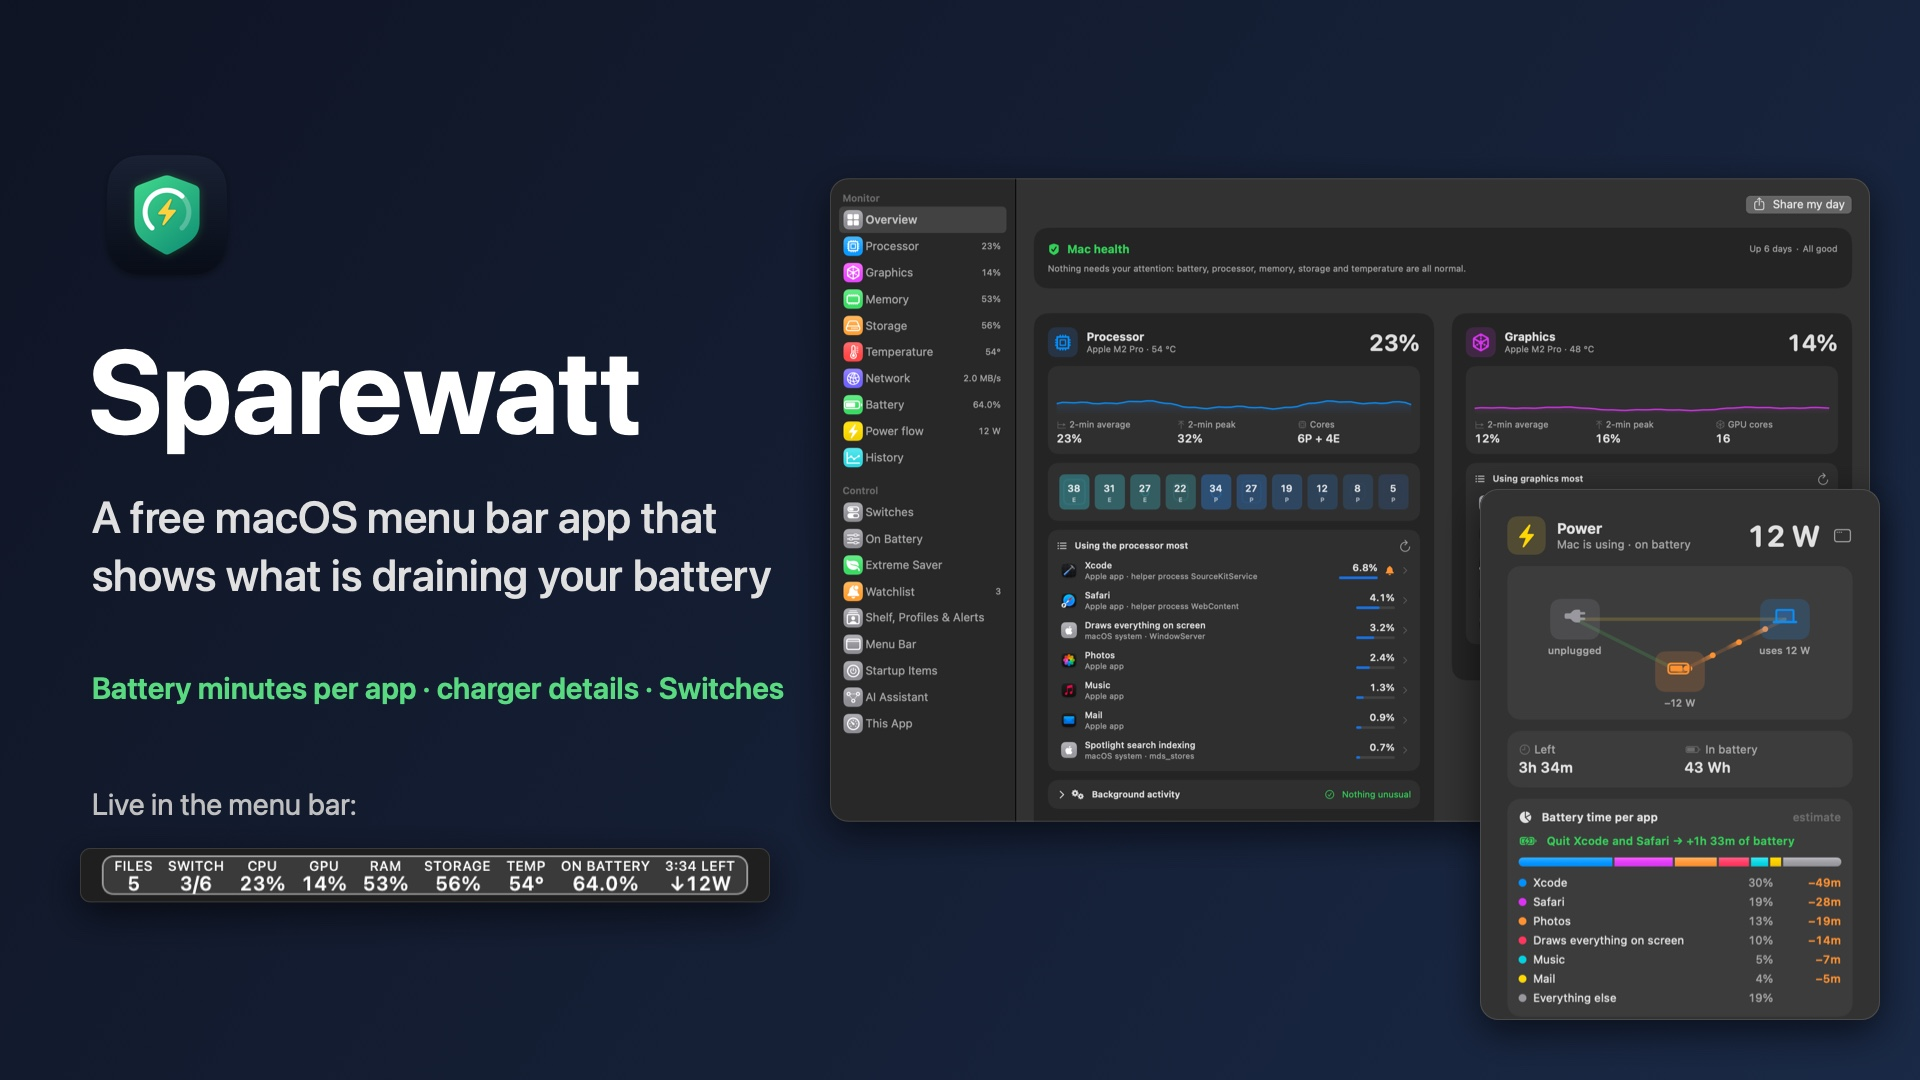
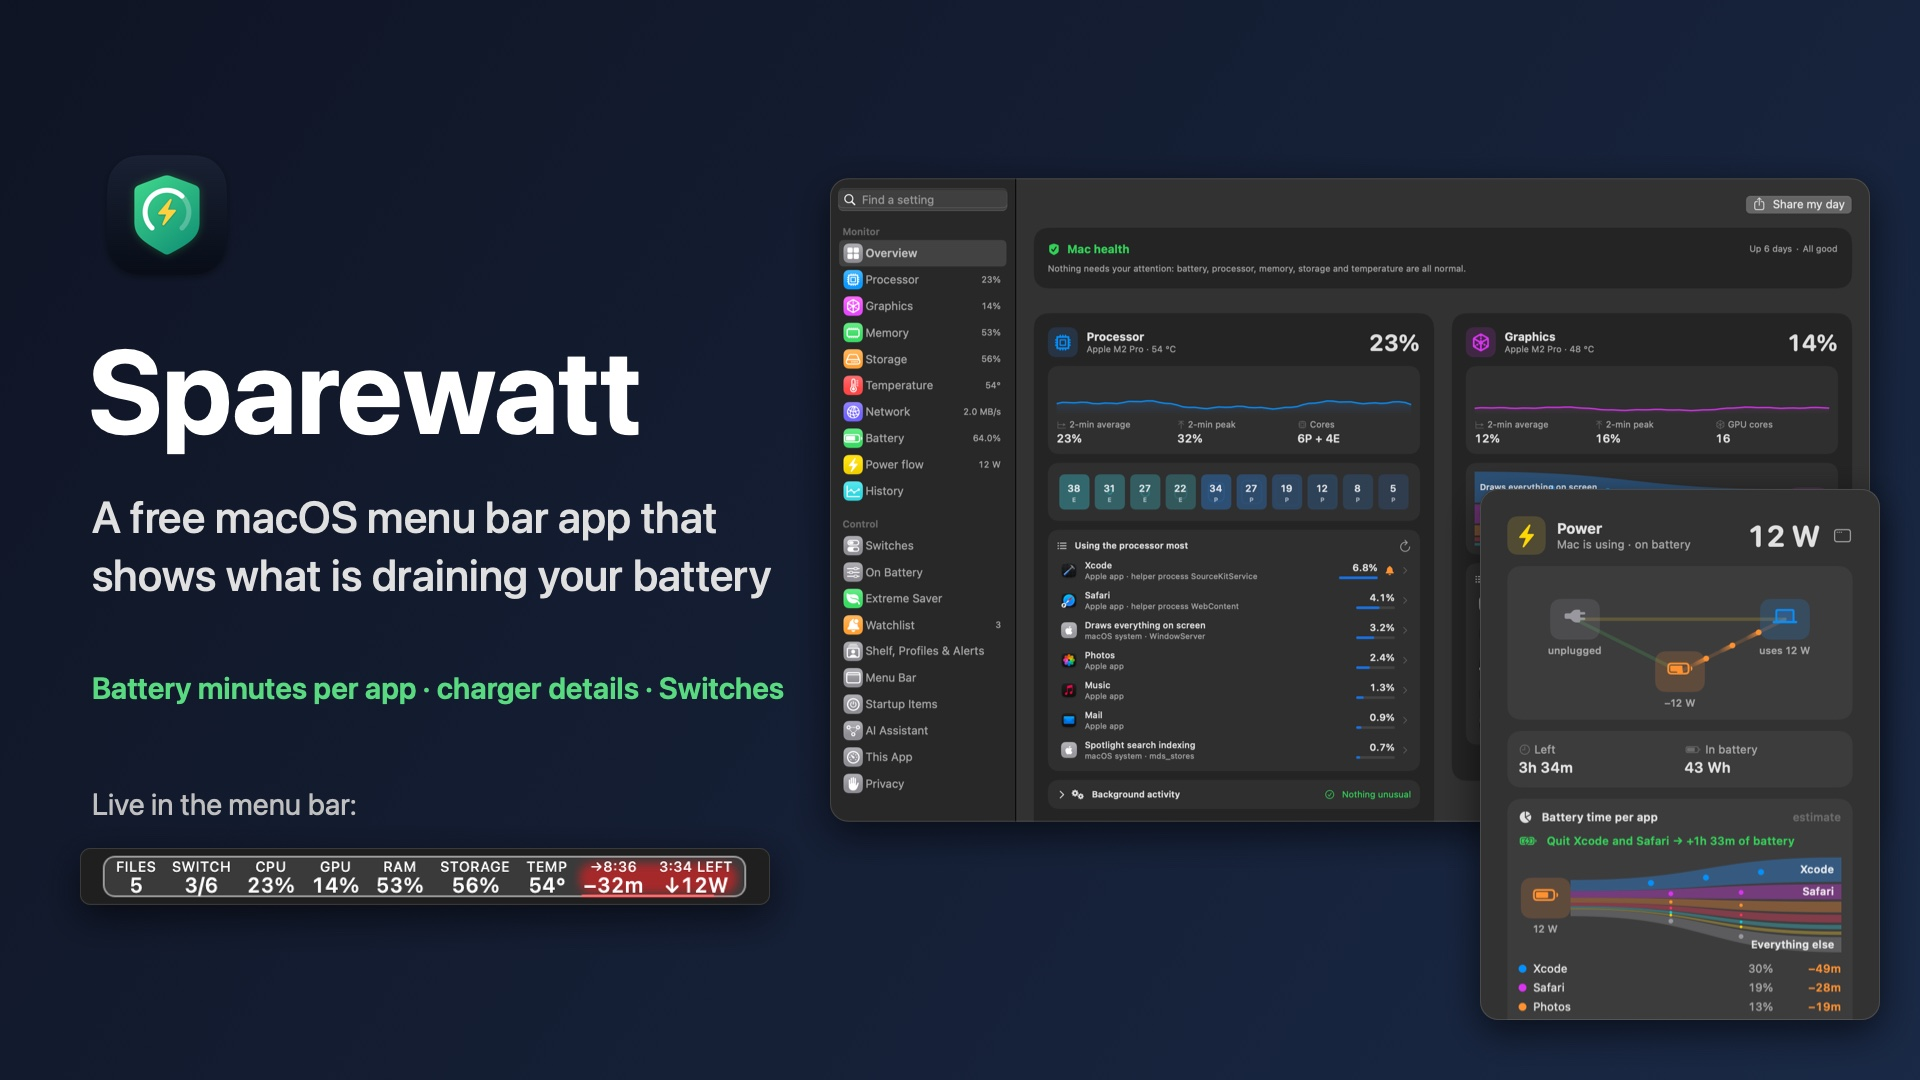
Sparewatt 1.13: Last until, cheaper live diagrams, keys inside a panel, macOS display settings; new battery panel, GIF and cover

diff --git a/CHANGELOG.md b/CHANGELOG.md
@@ -2,6 +2,42 @@
 
 What changed in Sparewatt, newest first, in plain words. Dates are when the change landed in the app's repository.
 
+## 2026-11-08 — Sparewatt 1.13
+
+Released as [Sparewatt 1.13](https://github.com/MShirazAhmad/Sparewatt-docs/releases/tag/v1.13-2026-11-08).
+
+**Last until.** A new card at the top of the Battery panel: pick the time you need the battery to reach, and Sparewatt
+keeps watch until then.
+
+- **A set point on a battery bar.** The fill is how far the battery reaches at this rate, the marker is your time, and
+  what it won't reach is hatched. Drag the marker or type a time.
+- **In the menu bar too:** the battery item shows the time and how much is to spare (`→3:00`, `+38m`), green, orange or
+  red, with the level line showing how much of the wait the battery covers.
+- **Apps coloured by what they cost against that time,** each with its watts and the minutes it's worth. Mark an app to
+  keep it running or to pause it; *Pause these* does what's suggested. Pausing closes nothing, and what you're using is
+  the last thing suggested.
+- **It says when pausing can't get there,** and how far short it would still be.
+- **By itself** pauses what it has to when the time starts slipping; never what you're using or what you said to keep.
+  A notification says so once if it starts to fall short.
+- Everything paused for it wakes when the time comes, when you end it, or when the charger goes in.
+- Also from a link: `sparewatt://last-until/15:00`, `sparewatt://last-until/off`.
+
+**Live diagrams cost a fraction of what they did.** Their motion now runs in macOS's own animation system, so between
+readings the app does nothing. Measured on one Mac, a panel with a diagram open: Network 26.5% of one core before, 2.5%
+after. They are also smoother, at up to 30 frames a second instead of 15.
+
+**Keys inside a panel.** With a panel opened by a click or a shortcut: ← → move to the neighbouring panel, Esc closes
+it, D opens its dashboard page, ⌘, opens Settings, and Tab reaches the rows you can click, with Return or Space to press
+them.
+
+**macOS's display settings.** *Increase contrast* gives the cards edges and the diagrams stronger lines. *Differentiate
+without colour* adds a shape wherever colour was doing the talking: status dots, the memory map's key, a mark after a
+figure in the menu bar, side-by-side bars for download and upload. *Reduce transparency* makes the floating shelf and
+the menu bar's glow solid.
+
+**Fixes.** A process number of 0 or 1 can no longer be offered for quitting, and Sparewatt never offers to quit itself.
+A rate just under 1 MB/s no longer reads "1024 KB/s".
+
 ## 2026-11-08 — Sparewatt 1.12
 
 Released as [Sparewatt 1.12](https://github.com/MShirazAhmad/Sparewatt-docs/releases/tag/v1.12-2026-11-08).

diff --git a/features/05 Battery.md b/features/05 Battery.md
@@ -39,6 +39,42 @@ state, not a guess.
 
 ---
 
+## Last until
+
+For when you know how long it has to last: it's noon, the appointment is at 3:00, and you'd like not to be sitting there
+with a dead Mac.
+
+<p align="center"><img src="../images/features/battery-goal.png" width="354" alt="The Last until card: a set point on a battery bar, what it can afford, and which apps to pause"><br><em>Last until, falling short: the set point, the part the battery won't reach, and what to pause</em></p>
+
+Set the time in the card at the top of the Battery panel and press **Start**.
+
+- **The bar** runs from now to a little past your time. The fill is how far the battery reaches at the current rate, the
+  marker is your time, and anything it won't reach is hatched. Drag the marker to change the time.
+- **The line under it** says *On track*, *Tight* or *Short by…*, what the Mac is drawing, and the most it can draw
+  on average and still get there.
+- **The menu bar** shows the set point and what's to spare (`→3:00`, `+38m`), in green, orange or red.
+
+  <p align="center"><img src="../images/features/menubar-goal.png" width="728" alt="The menu bar with the set point and the time short"></p>
+
+- **Each app** shows what it draws and how many minutes that's worth. Orange means *pause this*: the smallest set that
+  gets you there, heaviest first, and whatever you're actually using last.
+- **✓ keeps an app running** and it is never touched. **⏸ pauses it** now and in every later goal. Your choices are
+  remembered.
+- ***Pause these*** does what's suggested. Pausing freezes an app without closing it, so nothing is lost; it can't redraw
+  or do anything until it wakes.
+- ***By itself*** pauses what it has to when the time starts slipping, but never what you're using or what you marked ✓.
+- ***Low Power*** appears when it's tight or short. It asks for your Mac password, as macOS requires.
+
+If pausing everything still wouldn't get there, the card says so and how far short it would be.
+
+Everything paused for this wakes when your time comes, when you press *End*, or when the charger goes in. If you unplug
+again before the time, it carries on.
+
+All of it is an estimate from the Mac's measured draw over about the last two minutes and each app's share of it. The
+last 3% of the charge isn't counted, because macOS puts the Mac to sleep before it reaches nothing.
+
+From a script or Shortcuts: `sparewatt://last-until/15:00` (24-hour clock), `sparewatt://last-until/off`.
+
 ## The battery, to scale
 
 <p align="center"><img src="../images/features/battery-cell.png" width="354" alt="The battery cell"><br><em>The battery cell: the charge, the part lost to wear, and which way the energy is going. (Sample values.)</em></p>

diff --git a/guide/02 Menu bar and panels.md b/guide/02 Menu bar and panels.md
@@ -49,6 +49,29 @@ Every list says what a row is: an app (with its icon), an Apple app, a part of m
   last minute's drain, fading out as the drain gets lighter, and a thin line as long as the watts. On the charger the
   line shows how fast it charges.
 
+## Keys inside a panel
+
+A panel you opened by clicking its item or with a shortcut takes the keyboard. (One that opened because the pointer
+passed over the item doesn't: it never takes the keyboard from the app you're typing in.)
+
+| Key | What it does |
+|---|---|
+| ← → | the panel to the left or right, going round at the ends |
+| Esc | closes the panel |
+| D | this panel's page in the dashboard |
+| ⌘, | Settings |
+| Tab | moves through the rows you can click |
+| Return or Space | presses the row you're on |
+
+Buttons and switches join the Tab order when *Keyboard navigation* is on in System Settings → Keyboard.
+
+## Display settings in macOS
+
+Sparewatt follows System Settings → Accessibility → Display. *Increase contrast* gives cards edges and diagrams stronger
+lines. *Differentiate without colour* adds a shape wherever colour was doing the talking, including a `▲` or `!` after a
+figure in the menu bar. *Reduce transparency* makes the floating shelf and the menu bar's glow solid. *Reduce motion*
+makes the live diagrams still pictures.
+
 ## Look and speed
 
 Dashboard → Menu Bar → *Look*: words or small icons, text size, update speed (every 1, 2, 5 or 10 seconds — slower uses

diff --git a/features/README.md b/features/README.md
@@ -41,6 +41,7 @@ answers three questions from the menu bar:
 | Watchlist | be told when a chosen app overuses | precise, quiet, battery-aware | [Who is using it](04%20Who%20is%20using%20it.md#watchlist) |
 | Battery readings and charge state | the true state, not a guess | real fill to 0.1%, measured current | [Battery](05%20Battery.md) |
 | "Battery state doesn't add up" | catch failing limiters and weak chargers | found in a minute, not weeks | [Battery](05%20Battery.md#battery-state-doesnt-add-up) |
+| Last until | make it last to a set time | a set point in the menu bar, apps coloured by what they cost against it | [Battery](05%20Battery.md#last-until) |
 | Charge plan | when will I reach 20%? | based on your usual use | [Battery](05%20Battery.md#charge-plan) |
 | Device batteries | keyboard, mouse, trackpad, headphones, game controller levels, time left each, devices charging from the Mac | warned once before they run out | [Battery](05%20Battery.md#device-batteries) |
 | Macs without a battery | Mac mini, Mac Studio, iMac, Mac Pro | the Mac's draw from the wall; nothing that doesn't apply | [Battery](05%20Battery.md#macs-without-a-battery) |

diff --git a/README.md b/README.md
@@ -4,7 +4,7 @@
 
 <p align="center">
 <a href="https://github.com/MShirazAhmad/Sparewatt-docs/releases/latest"><img src="https://badgen.net/github/assets-dl/MShirazAhmad/Sparewatt-docs?label=downloads&color=green&scale=1.4" alt="Total downloads"></a>
-<a href="https://github.com/MShirazAhmad/Sparewatt-docs/releases/latest"><img src="https://img.shields.io/badge/latest-v1.12-blue" alt="Latest release"></a>
+<a href="https://github.com/MShirazAhmad/Sparewatt-docs/releases/latest"><img src="https://img.shields.io/badge/latest-v1.13-blue" alt="Latest release"></a>
 <img src="https://img.shields.io/badge/macOS-14%2B-blue" alt="macOS 14 or later">
 <img src="https://img.shields.io/badge/price-free-brightgreen" alt="Free">
 </p>
